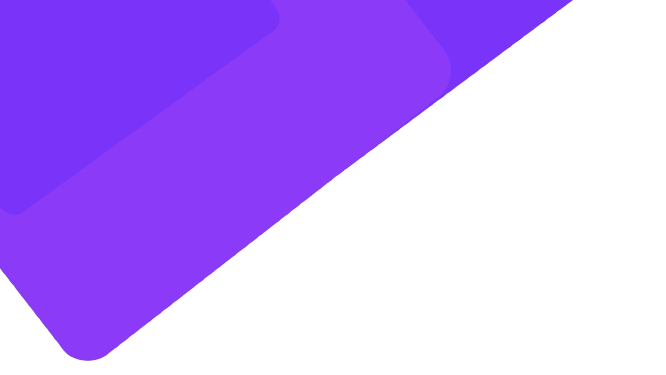
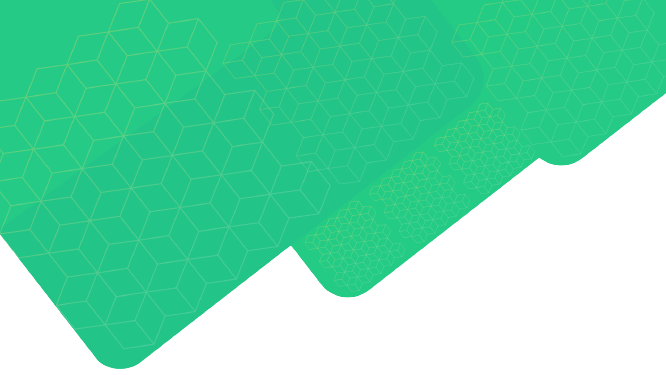
reform & theme change

diff --git a/src/pages/Landing/ThreeBox.jsx b/src/pages/Landing/ThreeBox.jsx
@@ -1,12 +1,15 @@
 import React from 'react';
 import Box from '@material-ui/core/Box';
-import { Typography } from '@mui/material';
+import { colors, Typography } from '@mui/material';
 import { makeStyles } from '@material-ui/core/styles';
 import PeopleIcon from '@material-ui/icons/People';
 import GroupWorkIcon from '@material-ui/icons/GroupWork';
 import HomeIcon from '@material-ui/icons/Home';
 import { width } from '@mui/system';
 import Header from '../../components/Header';
+import { useTheme } from "@mui/material";
+
+import { ColorModeContext, tokens } from "../../theme";
 
 const useStyles = makeStyles((theme) => ({
   container: {
@@ -33,7 +36,7 @@ const useStyles = makeStyles((theme) => ({
     padding:'2rem',
     color:"black",
     borderRadius: '1rem',
-    boxShadow: '0px 10px 60px #d2b7f3'
+    boxShadow: '0px 10px 60px #9fe0cf'
    
   },
   middleBox: {
@@ -47,7 +50,7 @@ const useStyles = makeStyles((theme) => ({
     padding:'2rem',
     color:"black",
     borderRadius: '1rem',
-    boxShadow: '0px 10px 60px #d2b7f3'
+    boxShadow: '0px 10px 60px #9fe0cf '
   },
   icon: {
     marginBottom: theme.spacing(2),
@@ -65,7 +68,7 @@ const BoxItem = ({ icon, children }) => {
       <PeopleIcon className={classes.icon}/>
      <Typography
        variant='h2'
-       color='#8b3af8'
+       color= {colors.green[600]}
        fontWeight='bold'
        textAlign='center'
      >
@@ -90,7 +93,7 @@ const MiddleBox = ({ children }) => {
       <GroupWorkIcon className={classes.icon} />
       <Typography
        variant='h2'
-       color='#8b3af8'
+       color= {colors.green[600]}
        fontWeight='bold'
        textAlign='center'
      >
@@ -109,6 +112,9 @@ const MiddleBox = ({ children }) => {
 
 const ThreeBox = () => {
   const classes = useStyles();
+  const theme = useTheme();
+    const colors = tokens(theme.palette.mode);
+
 
   return (
     <>

diff --git a/src/pages/Landing/index.jsx b/src/pages/Landing/index.jsx
@@ -2,11 +2,10 @@ import React, {useState} from 'react'
 import { Box, useTheme, IconButton, Typography } from "@mui/material";
 import Header from '../../components/Header';
 import { ColorModeContext, tokens } from "../../theme";
-import { makeStyles } from '@material-ui/core/styles';
-import Button from '@material-ui/core/Button';
+
 import Button1 from '../../components/Button';
 import banner from './banner1.png'
-import main from './main.gif'
+import main from './main.png'
 import Grid from '../../components/Grid';
 import Grid2 from '../../components/Grid2';
 import ThreeBox from './ThreeBox';
@@ -26,7 +25,7 @@ const Landing = () =>{
         <>
          <img src={banner} height='100%' width='100%' style={{position: "static", zIndex: "1", top:"-5rem"}}/>
         <Box
-        display='flex'
+        display='grid'
         flexWrap='wrap'
         marginTop='30rem'
         >
@@ -34,6 +33,7 @@ const Landing = () =>{
        
         <Box
          position='relative'
+         
          zIndex='1'
          top='-70rem'
          left='45px'
@@ -50,11 +50,12 @@ const Landing = () =>{
           <Box
              position='relative'
              top='-96rem'
-             left='50rem'
-             zIndex='-1'
+             left='70rem'
+             zIndex='1'
+           
 >
           
-           <GifPlayer gif={main} still={main} />
+           <img src={main}   width='650rem' />
           </Box>
         </Box>
 

diff --git a/src/theme.js b/src/theme.js
@@ -28,16 +28,16 @@ export const tokens = (mode) => ({
           900: "#040509",
         },
         green: {
-          100: "#dbf5ee",
-          200: "#b7ebde",
-          300: "#94e2cd",
-          400: "#70d8bd",
-          500: "#4cceac",
-          600: "#3da58a",
-          700: "#2e7c67",
-          800: "#1e5245",
-          900: "#0f2922",
-        },
+          100: "#d3f4e7",
+          200: "#a7eacf",
+          300: "#7cdfb6",
+          400: "#50d59e",
+          500: "#24ca86",
+          600: "#1da26b",
+          700: "#167950",
+          800: "#0e5136",
+          900: "#07281b"
+},
         red: {
           100: "#f8dcdb",
           200: "#f1b9b7",
@@ -110,17 +110,17 @@ export const tokens = (mode) => ({
 },
 
 
-        green: {
-          100: "#0f2922",
-          200: "#1e5245",
-          300: "#2e7c67",
-          400: "#3da58a",
-          500: "#4cceac",
-          600: "#70d8bd",
-          700: "#94e2cd",
-          800: "#b7ebde",
-          900: "#dbf5ee",
-        },
+green: {
+  100: "#07281b",
+  200: "#0e5136",
+  300: "#167950",
+  400: "#1da26b",
+  500: "#24ca86",
+  600: "#50d59e",
+  700: "#7cdfb6",
+  800: "#a7eacf",
+  900: "#d3f4e7",
+},
         red: {
           100: "#2c100f",
           200: "#58201e",

diff --git a/src/components/Header.jsx b/src/components/Header.jsx
@@ -17,7 +17,7 @@ const Header = ({ title, subtitle }) => {
       >
         {title}
       </Typography>
-      <Typography variant="h5" color={colors.black[900]} fontWeight='light' width='45%' marginTop='20px'>
+      <Typography variant="h4" color={colors.black[900]} fontWeight='light' width='45%' marginTop='20px'>
         {subtitle}
       </Typography>
     </Box>

diff --git a/src/App.js b/src/App.js
@@ -16,7 +16,7 @@ function App() {
              <ThemeProvider theme={theme}>
                     <CssBaseline />
                     <div className="app">
-                    <Sidebar /> 
+                    {/* <Sidebar />  */}
                 
                     <main className="content">
                             <Topbar />
